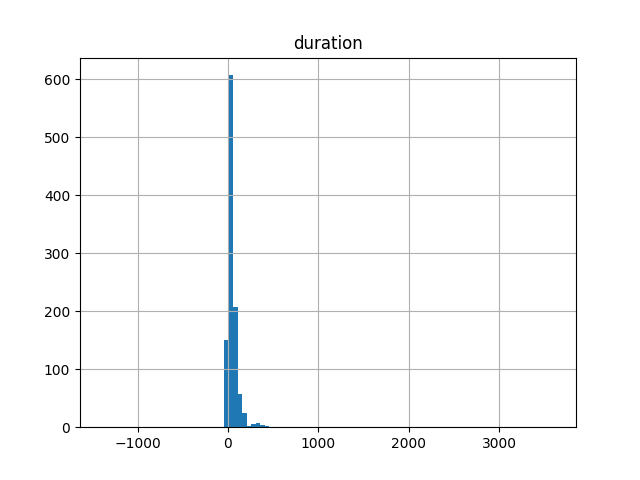
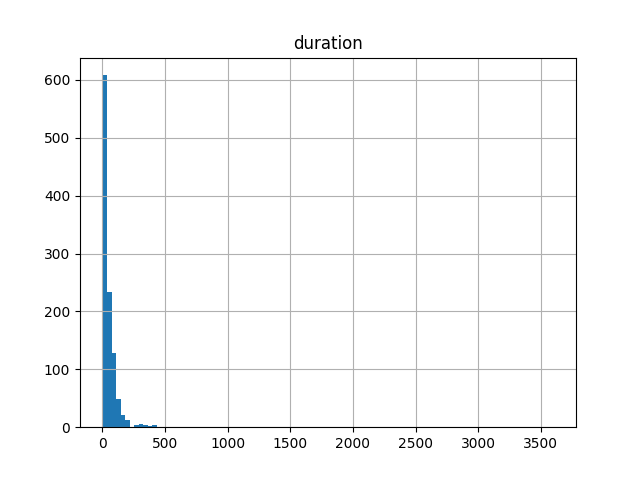
seizure type distribution script

Changed region(s): [[0.125, 0.1562, 0.9062, 0.9375], [0.4062, 0.9062, 0.6875, 0.9375], [0.7188, 0.9062, 0.875, 0.9375]]

diff --git a/seizure_type_distribution.py b/seizure_type_distribution.py
@@ -3,12 +3,119 @@
 import pandas as pd
 import glob
 import os
-from path import Path
-
-df_train = pd.Dataframe()
-
-for f in glob.glob(Path.machine_path + "train/" + "**/*.csv"):
-    df = pd.read_csv(f, header=6)
-    
+from tqdm import tqdm
+import matplotlib.pyplot as plt
+import numpy as np
 
 
+
+df_train = pd.DataFrame()
+df_dev = pd.DataFrame()
+df_eval = pd.DataFrame()
+
+for f in tqdm(glob.glob("/home/migo/TUHP/TUSZ_V2/edf/train" + "/**/*.csv", recursive=True)):
+    df = pd.read_csv(f, header=5)
+    df_train = pd.concat([df_train, df])
+
+
+for f in tqdm(glob.glob("/home/migo/TUHP/TUSZ_V2/edf/dev" + "/**/*.csv", recursive=True)):
+    df = pd.read_csv(f, header=5)
+    df_dev = pd.concat([df_dev, df])
+
+for f in tqdm(glob.glob("/home/migo/TUHP/TUSZ_V2/edf/eval" + "/**/*.csv", recursive=True)):
+    df = pd.read_csv(f, header=5)
+    df_eval = pd.concat([df_eval, df])
+
+
+df_train['duration'] = df_train['stop_time'] - df_train['start_time']
+
+
+df_train['label'].value_counts().plot.bar(colormap='Paired')
+plt.xlabel('seizure type')
+plt.ylabel('occurences')
+plt.title('Train set class occurences')
+plt.savefig("/home/migo/TUHP/Automatic-Epileptic-Seizure-Detection/data_exploration/Plots/train_seizure_type_distribution.png")
+df_dev['label'].value_counts().plot.bar()
+plt.xlabel('seizure type')
+plt.ylabel('occurences')
+plt.title('Dev set class occurences')
+plt.savefig("/home/migo/TUHP/Automatic-Epileptic-Seizure-Detection/data_exploration/Plots/dev_seizure_type_distribution.png")
+df_eval['label'].value_counts().plot.bar()
+plt.xlabel('seizure type')
+plt.ylabel('occurences')
+plt.title('Eval set class occurences')
+plt.savefig("/home/migo/TUHP/Automatic-Epileptic-Seizure-Detection/data_exploration/Plots/eval_seizure_type_distribution.png")
+
+df_train['duration'] = df_train['stop_time'] - df_train['start_time']
+df_dev['duration'] = df_dev['stop_time'] - df_dev['start_time']
+df_eval['duration'] = df_eval['stop_time'] - df_eval['start_time']
+
+df_train.groupby('label')['duration'].sum().plot.bar()
+plt.xlabel('seizure type')
+plt.ylabel('occurences')
+plt.title('Train set class durations')
+plt.savefig("/home/migo/TUHP/Automatic-Epileptic-Seizure-Detection/data_exploration/Plots/train_seizure_type_duration_distribution.png")
+df_dev.groupby('label')['duration'].sum().plot.bar()
+plt.xlabel('seizure type')
+plt.ylabel('occurences')
+plt.title('Dev set class durations')
+plt.savefig("/home/migo/TUHP/Automatic-Epileptic-Seizure-Detection/data_exploration/Plots/dev_seizure_type_duration_distribution.png")
+df_eval.groupby('label')['duration'].sum().plot.bar()
+plt.xlabel('seizure type')
+plt.ylabel('occurences')
+plt.title('Eval set class durations')
+plt.savefig("/home/migo/TUHP/Automatic-Epileptic-Seizure-Detection/data_exploration/Plots/eval_seizure_type_duration_distribution.png")
+
+#the background duration is so dominant that the scale of the other classes cannot be seen
+#drop the background class and revisualise the bar chart
+
+
+t_values = df_train.groupby(['label']).sum('duration')['duration'].values
+t_index = df_train.groupby(['label']).sum('duration')['duration'].index.values
+tt_values = np.delete(t_values, 1)
+tt_index = np.delete(t_index, 1)
+
+d_values = df_dev.groupby(['label']).sum('duration')['duration'].values
+d_index = df_dev.groupby(['label']).sum('duration')['duration'].index.values
+d_values = np.delete(d_values, 1)
+d_index = np.delete(d_index, 1)
+
+e_values = df_eval.groupby(['label']).sum('duration')['duration'].values
+e_index = df_eval.groupby(['label']).sum('duration')['duration'].index.values
+e_values = np.delete(e_values, 1)
+e_index = np.delete(e_index, 1)
+
+
+plt.bar(t_index, t_values)
+plt.show()
+plt.bar(tt_index, tt_values)
+plt.show()
+
+
+#df_train.groupby('label').sum().drop('bckg')['duration'].plot.bar()
+df_t = df_train.groupby(by=['label']).sum('duration')['duration']
+df_tt = df_t.drop('bckg')
+df_tt.plot(kind='bar')
+df_tt.plot(kind='bar')
+plt.xlabel('seizure type')
+plt.ylabel('occurences')
+plt.title('Train set class durations')
+plt.savefig("/home/migo/TUHP/Automatic-Epileptic-Seizure-Detection/data_exploration/Plots/train_seizure_type_duration_distribution_noBckg.png")
+#df_dev.groupby('label').sum().drop('bckg')['duration'].plot.bar()
+df_d = df_dev.groupby(by=['label']).sum('duration')['duration']
+df_dd = df_d.drop('bckg')
+df_dd.plot(kind='bar')
+df_dd.plot(kind='bar')
+plt.xlabel('seizure type')
+plt.ylabel('occurences')
+plt.title('Dev set class durations')
+plt.savefig("/home/migo/TUHP/Automatic-Epileptic-Seizure-Detection/data_exploration/Plots/dev_seizure_type_duration_distribution_noBckg.png")
+#df_eval.groupby('label').sum().drop('bckg')['duration'].plot.bar()
+df_e = df_eval.groupby(by=['label']).sum('duration')['duration']
+df_ee = df_e.drop('bckg')
+df_e.plot(kind='bar')
+df_e.plot(kind='bar')
+plt.xlabel('seizure type')
+plt.ylabel('occurences')
+plt.title('Eval set class durations')
+plt.savefig("/home/migo/TUHP/Automatic-Epileptic-Seizure-Detection/data_exploration/Plots/eval_seizure_type_duration_distribution_noBckg.png")

diff --git a/data_exploration/seizure_duration_distribution.py b/data_exploration/seizure_duration_distribution.py
@@ -161,6 +161,41 @@ print("--------------------------")
 
 
 
+print("There are some seizures with a duration less than 0.")
+df_minus = df_total[df_total['duration'] < 0]
+print(df_minus)
+print("These are mistakes, remove.")
+
+df_train = df_train[df_train['duration'] > 0]
+df_dev = df_dev[df_dev['duration'] > 0]
+df_eval = df_eval[df_eval['duration'] > 0]
+df_total = df_total[df_total['duration'] > 0 ]
+
+print("------ Train Stats-------")
+print("")
+print(f"Maximum seizure length: {df_train.loc[df_train['duration'].idxmax()]}")
+print(f"Minimum seizure length: {df_train.loc[df_train['duration'].idxmin()]}")
+print(f"Mean seizure length: {df_train['duration'].mean()}")
+print(f"Median seizure length: {df_train['duration'].median()}")
+print("")
+print("--------------------------")
+print("------ Dev Stats-------")
+print("")
+print(f"Maximum seizure length: {df_dev.loc[df_dev['duration'].idxmax()]}")
+print(f"Minimum seizure length: {df_dev.loc[df_dev['duration'].idxmin()]}")
+print(f"Mean seizure length: {df_dev['duration'].mean()}")
+print(f"Median seizure length: {df_dev['duration'].median()}")
+print("")
+print("--------------------------")
+print("------ Eval Stats-------")
+print("")
+print(f"Maximum seizure length: {df_eval.loc[df_eval['duration'].idxmax()]}")
+print(f"Minimum seizure length: {df_eval.loc[df_eval['duration'].idxmin()]}")
+print(f"Mean seizure length: {df_eval['duration'].mean()}")
+print(f"Median seizure length: {df_eval['duration'].median()}")
+print("")
+print("--------------------------")
+
 plt.figure(0)
 df_train.hist(column="duration", bins=100)
 plt.savefig("/home/migo/TUHP/Automatic-Epileptic-Seizure-Detection/data_exploration/train_seizure_duration_distribution.png")
@@ -177,7 +212,9 @@ plt.figure(3)
 df_total.hist(column="duration", bins=100)
 plt.savefig("/home/migo/TUHP/Automatic-Epileptic-Seizure-Detection/data_exploration/total_seizure_duration_distribution.png")
 
-
+plt.figure(4)
+df_total[df_total['duration']<350].hist(column="duration", bins=100, grid=False)
+plt.savefig("/home/migo/TUHP/Automatic-Epileptic-Seizure-Detection/data_exploration/total_seizure_duration_distribution_noutliers.png")
 
 #negative durations are obviously typos. Let's examine some of the files that say this. 
 
